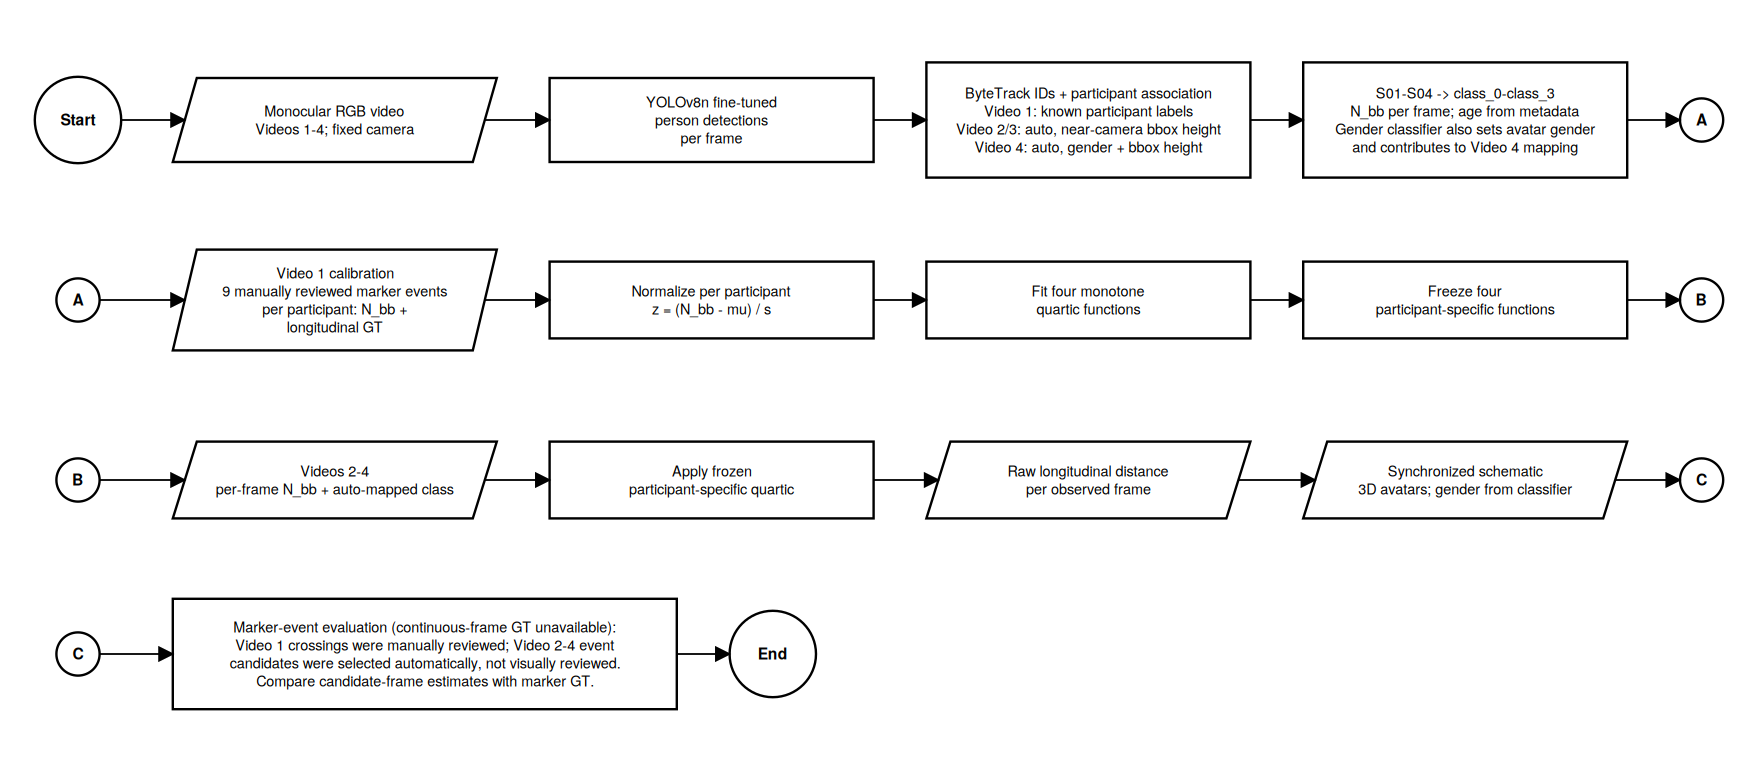
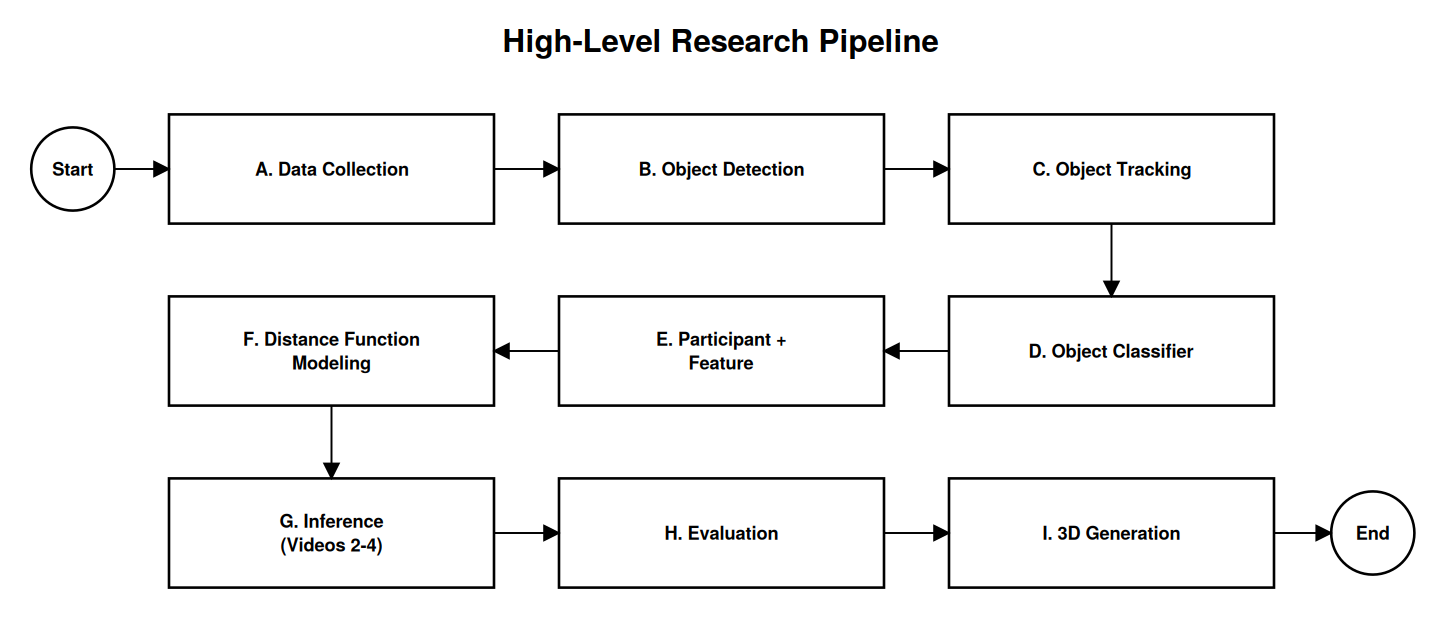
Sync supplementary release with JIPI Rev6

diff --git a/docs/METHODOLOGY.md b/docs/METHODOLOGY.md
@@ -1,25 +1,25 @@
 # Methodology summary
 
-This summary reflects the final manuscript/evaluator scope; it is not a replacement for the private end-to-end pipeline.
+This summary reflects the Rev6 manuscript/evaluator scope; it is not a replacement for the private end-to-end pipeline.
 
 ## Setup and participants
 
-The study uses four recorded participants represented by study-specific IDs S01-S04 and model IDs `class_0`-`class_3`. A fixed smartphone camera records a lane nominally 6 m wide. Nine longitudinal markers M01-M09 are spaced at nominal 6.6 m intervals, from 6.6 m to 59.4 m. These four participants do not constitute a population sample and do not establish generalization to unseen participants or cameras.
+Four recorded participants are represented by study-specific IDs S01-S04 and model IDs `class_0`-`class_3`: two adults (one male and one female) and two young children (one male and one female). Video was recorded using the main camera of a POCO F3 smartphone, mounted on a fixed tripod with the lens approximately 150 cm above ground. The lane is nominally 6 m wide. Nine longitudinal markers M01-M09 are spaced at nominal 6.6 m intervals, from 6.6 m to 59.4 m. No additional participant recruitment or sampling criteria are documented. This cohort is not a population sample and does not establish generalization to unseen participants or cameras.
 
 ## Detection, tracking, and feature
 
-A fine-tuned YOLOv8n person detector runs with 1280-pixel input and confidence threshold 0.05. ByteTrack associates detections over frames. The numerical feature is geometric bbox area `A_bb_px2 = width_px * height_px` in px^2; detector coordinates can be floating-point. It is a rectangle-area proxy, not foreground segmentation or a discrete raster-pixel count.
+A fine-tuned YOLOv8n person detector runs with 1280-pixel input and confidence threshold 0.05. ByteTrack associates detections over frames. The numerical feature is geometric bounding-box area `A_bb_px2 = width_px * height_px` in px^2; detector coordinates can be floating-point. It is a rectangle-area proxy, not foreground segmentation or a discrete raster-pixel count.
 
-Video 1 participant-to-track associations are reviewed. For Videos 2-4, four high-count tracks are associated automatically with the known participants. Videos 2-3 use a near-camera bbox-height fallback; Video 4 uses a gender classifier with near-camera bbox height. The classifier is not a direct quartic input, but can affect participant-model selection in Video 4. Mapping accuracy is not independently evaluated.
+Video 1 participant-to-track associations are reviewed. For Videos 2-4, four high-count tracks are associated automatically with the known participants. Videos 2-3 use a near-camera bounding-box-height fallback; Video 4 uses a visual Female/Male classifier with near-camera height. The classifier is not a direct quartic input, but can affect participant-model selection in Video 4. Age is participant metadata, not a model prediction. Mapping accuracy is not independently evaluated.
 
 ## Personal quartic model
 
-Four separate degree-4 polynomials are fit on Video 1, with nine marker events per participant. Each participant's bbox area is normalized by the mean and population standard deviation of their nine Video 1 calibration events. The fitted estimate is constrained to be non-increasing with area over the observed class-specific calibration range. Video 1 is in-sample because the same 36 events are used for fitting and evaluation. Coefficients are frozen for Videos 2-4 without refitting. The evaluator imposes no positivity bound and does not clip negative predictions.
+Four separate degree-4 polynomials are fit on Video 1, with nine marker events per participant. Each participant's bounding-box area is normalized by the mean and population standard deviation of their nine Video 1 calibration events. The fitted estimate is constrained to be non-increasing with area over the observed class-specific calibration range. Video 1 is in-sample because the same 36 events are used for fitting and evaluation. Coefficients are frozen for Videos 2-4 without refitting. The evaluator imposes no positivity bound and does not clip negative predictions.
 
 ## Inference and event evaluation
 
-Model inference is generated frame-wise for detected/mapped tracks. Ground truth is available only at marker crossings, so reported quantitative distance metrics use those event samples, not continuous per-frame ground truth. Video 1 crossings are visually reviewed. Videos 2-4 use automatically selected candidate events that are not visually confirmed event-by-event. Test metrics therefore describe a pipeline that includes participant association, event selection, and quartic inference; mapping accuracy and candidate-selection sensitivity are not separately measured.
+Model inference is generated frame-wise for detected and mapped tracks. Ground truth is available only at marker crossings, so reported quantitative distance metrics use those event samples, not continuous per-frame ground truth. Video 1 crossings are visually reviewed. Videos 2-4 use automatically selected candidate events that are not visually confirmed event-by-event. Test metrics therefore describe a pipeline that includes participant-to-track association, event selection, and quartic inference; mapping accuracy and candidate-selection sensitivity are not separately measured.
 
 ## 3D illustration
 
-The demonstration maps longitudinal estimates to compressed display depth and approximate lateral position. Lateral position is schematic, not an independently calibrated coordinate. Invalid/out-of-domain predictions are not presented as valid 3D placements; raw predictions remain available in the event data.
+The front-oblique 3D display compresses depth and approximates lateral position. Avatar depth is anchored at selected marker-crossing frame/time and measured-GT pairs, then interpolated linearly between anchors for display only. This is neither quartic output nor continuous ground truth and is not used to compute any distance metric; evaluation uses the raw class-specific quartic prediction at marker events. Lateral position is schematic, not an independently calibrated coordinate or 3D validation.

diff --git a/README.md b/README.md
@@ -6,7 +6,7 @@
 
 ## Overview
 
-This study estimates pedestrian longitudinal distance from monocular RGB video. A fine-tuned YOLOv8n person detector and ByteTrack produce frame-wise detections and tracks. The numeric model input is geometric bounding-box area `width_px * height_px` in px^2, not a foreground-segmentation pixel count. Four participant-specific degree-4 quartics are calibrated on Video 1 under a non-increasing constraint over observed calibration-area ranges; coefficients are frozen for Video 2-4.
+This study estimates pedestrian longitudinal distance from monocular RGB video. Four participants (two adults and two young children; one male and one female in each group) were recorded using a fixed POCO F3 smartphone camera on a tripod, with the lens approximately 150 cm above ground. The lane is 6 m wide and nine longitudinal markers span 6.6-59.4 m. A fine-tuned YOLOv8n person detector and ByteTrack produce frame-wise detections and tracks. The numeric model input is geometric bounding-box area `width_px * height_px` in px^2, not a foreground-segmentation pixel count. Four participant-specific degree-4 quartics are calibrated on Video 1 under a non-increasing constraint over observed calibration-area ranges; coefficients are frozen for Video 2-4. No additional participant recruitment criteria are documented; this cohort is not a population sample.
 
 Inference is frame-wise, but quantitative distance metrics use marker-crossing events with ground truth. Video 1 is in-sample: the same 36 events are used for fitting and evaluation. Videos 2-4 use 36 automatically selected candidates per video without refit or manual event-by-event visual confirmation. Test metrics therefore describe a pipeline including participant-to-track association, event selection, and quartic estimation; mapping accuracy and event-selection sensitivity were not independently measured.
 
@@ -16,7 +16,7 @@ Inference is frame-wise, but quantitative distance metrics use marker-crossing e
 - `data/Supplementary_Data_2_M09_Per_Class_Results.csv` - 12 class-level M09 rows plus three pooled summary rows.
 - `docs/` - data dictionary, methodology, evaluation protocol, provenance, reproducibility limits, and index.
 - `scripts/verify_supplementary_metrics.py` - standard-library metric and integrity verifier.
-- `figures/Fig_1_...png` through `Fig_5_...png` - figures extracted from the author-supplied final manuscript. Fig. 5 uses the approved front-oblique view.
+- `figures/` - the six figures extracted from the Rev6 manuscript: high-level workflow, marker measurement, experimental layout, detailed A-I pipeline, personal quartic curves, and the author-selected front-oblique 3D view (Fig. 6).
 - `evidence/` - eight documentation-photo derivatives; GPS/EXIF metadata removed, and the visible person's head/face blurred in the affected image. Unmodified source photos are not distributed.
 - `videos/` - three official manuscript supplementary videos for Videos 2-4, plus one additional Video 1 in-sample calibration demo. All are face-blurred and audio-free.
 
@@ -35,7 +35,7 @@ One Video 1 in-sample prediction is negative and is retained without clipping. A
 
 ## Limitations
 
-The evaluation covers four recorded participants and one fixed-camera setup. It does not establish generalization to new participants/cameras, mapping accuracy, event-selection sensitivity, or continuous per-frame distance accuracy. The 3D display compresses depth and approximates lateral position; it is illustrative, not independently calibrated 3D localization.
+The evaluation covers four recorded participants and one fixed-camera setup. It does not establish generalization to new participants/cameras, mapping accuracy, event-selection sensitivity, or continuous per-frame distance accuracy. The 3D display compresses depth and approximates lateral position; selected marker-crossing frame/ground-truth pairs anchor avatar depth, with linear interpolation between anchors for display only. This display path is not quartic output, continuous ground truth, a distance metric, or independent 3D localization validation; reported metrics use raw quartic predictions at marker events.
 
 ## Privacy and reuse
 

diff --git a/docs/DATA_PROVENANCE.md b/docs/DATA_PROVENANCE.md
@@ -1,10 +1,10 @@
 # Data provenance
 
-The released CSV files are byte-identical copies of the final supplementary project files. No row, field, precision, or value was changed.
+The released CSVs contain the same rows, fields, precision, and values as the corresponding final supplementary project files. The Data 1 source file uses CRLF line endings while the public release uses LF; after CSV parsing all 144 data rows are identical. Data 2 is byte-identical.
 
-| Released file | Source path relative to research project | Rows excluding header | SHA-256 |
-|---|---|---:|---|
[2 lines of base64/hex data omitted]
+| Released file | Source path relative to research project | Rows excluding header | SHA-256 (public release) | SHA-256 (local source) |
+|---|---|---:|---|---|
[2 lines of base64/hex data omitted]
 
 Cross-checks used the final evaluator artifacts in `outputs/distance_polynomial/v2_final_monotone_quartics/` and source `scripts/04_distance_evaluation/evaluate_final_monotone_quartics.py`. The full evaluator, fitted model bundle, and raw job directories are not included. All eight evidence photos were copied to `evidence/public/` as sanitized derivatives; GPS/EXIF was stripped and the one visible person's head/face was blurred. Their originals remain private and are not distributed.

diff --git a/docs/SUPPLEMENTARY_INDEX.md b/docs/SUPPLEMENTARY_INDEX.md
@@ -6,7 +6,7 @@
 | Supplementary Data 2 | `data/Supplementary_Data_2_M09_Per_Class_Results.csv` | Participant-specific M09 estimates/errors for Videos 2-4 and pooled M09 metrics. |
 | Supplementary Videos 1-3 | `videos/Supplementary_Video_1_Video_2_Inference.mp4`; `videos/Supplementary_Video_2_Video_3_Inference.mp4`; `videos/Supplementary_Video_3_Video_4_Inference.mp4` | Face-blurred inference demonstrations corresponding to Videos 2-4. |
 | Additional Video 1 | `videos/Additional_Video_Video_1_Calibration_InSample.mp4` | In-sample calibration demonstration; additional to the manuscript's Supplementary Videos 1-3. |
-| Figures 1-5 | `figures/` | Figures extracted from the final manuscript; Fig. 5 includes the front-oblique 3D view. |
+| Figures 1-6 | `figures/` | Rev6 manuscript figures: workflow, marker measurement, experimental layout, detailed A-I pipeline, quartic curves, and front-oblique 3D illustration (Fig. 6). |
 | Evidence photos | `evidence/public/` | Eight sanitized measurement/setup photo derivatives with GPS/EXIF removed; one visible person's face/head blurred. |
 
-The MP4s are visual demonstrations. Quantitative distance metrics are evaluated at marker-crossing events, not continuously per frame. Depth is compressed and lateral position is schematic.
+The MP4s are visual demonstrations. Quantitative distance metrics are evaluated at marker-crossing events, not continuously per frame. For display only, avatar depth is anchored at selected marker-crossing frame/GT pairs and interpolated between anchors. This path is not quartic output or a metric; distance metrics use raw quartic predictions at crossing events. Depth is compressed and lateral position is schematic.

diff --git a/figures/README.md b/figures/README.md
@@ -1,3 +1,12 @@
-# Supplementary figures
+# Supplementary figures (Rev6)
 
-Figures 1-5 are extracted from the author-supplied final manuscript. Figure 2 documents a marker measurement; Fig. 5 combines face-blurred camera panels with a front-oblique 3D display. The PNGs contain no GPS EXIF. The figure files are CC BY 4.0 under the author's selection; see the root `LICENSE`.
+The six PNGs in this directory match the figure order in the Rev6 manuscript:
+
+1. `Fig_1_Workflow.png` - high-level research pipeline.
+2. `Fig_2_Marker_Measurement.png` - field documentation of marker measurement.
+3. `Fig_3_Experimental_Layout.png` - schematic of camera, lane, and markers.
+4. `Fig_4_Detailed_Research_Pipeline.png` - detailed A-I flowchart.
+5. `Fig_5_Personal_Quartic_Curves.png` - four fitted participant-specific quartics.
+6. `Fig_6_Front_Oblique_Inference.png` - author-selected front-oblique camera/3D illustrative view.
+
+Figure 6 is schematic: avatar locations are not a validated 3D estimate. In the corresponding demonstration protocol, display depth is GT-anchored at selected marker events and interpolated between anchors; quantitative distance metrics use raw quartic predictions at marker events. The PNGs are CC BY 4.0 under the author's selection; see the root `LICENSE`.
